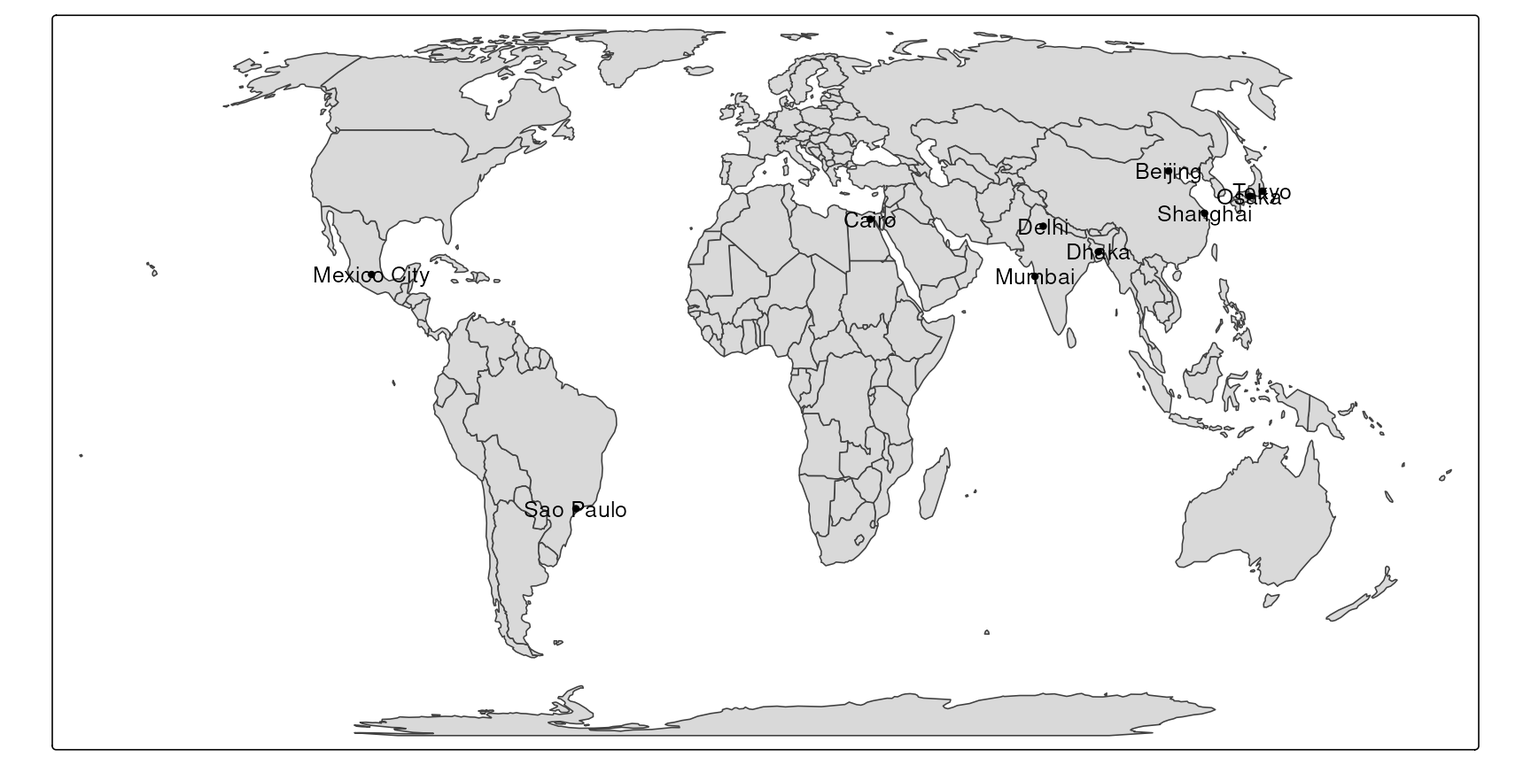
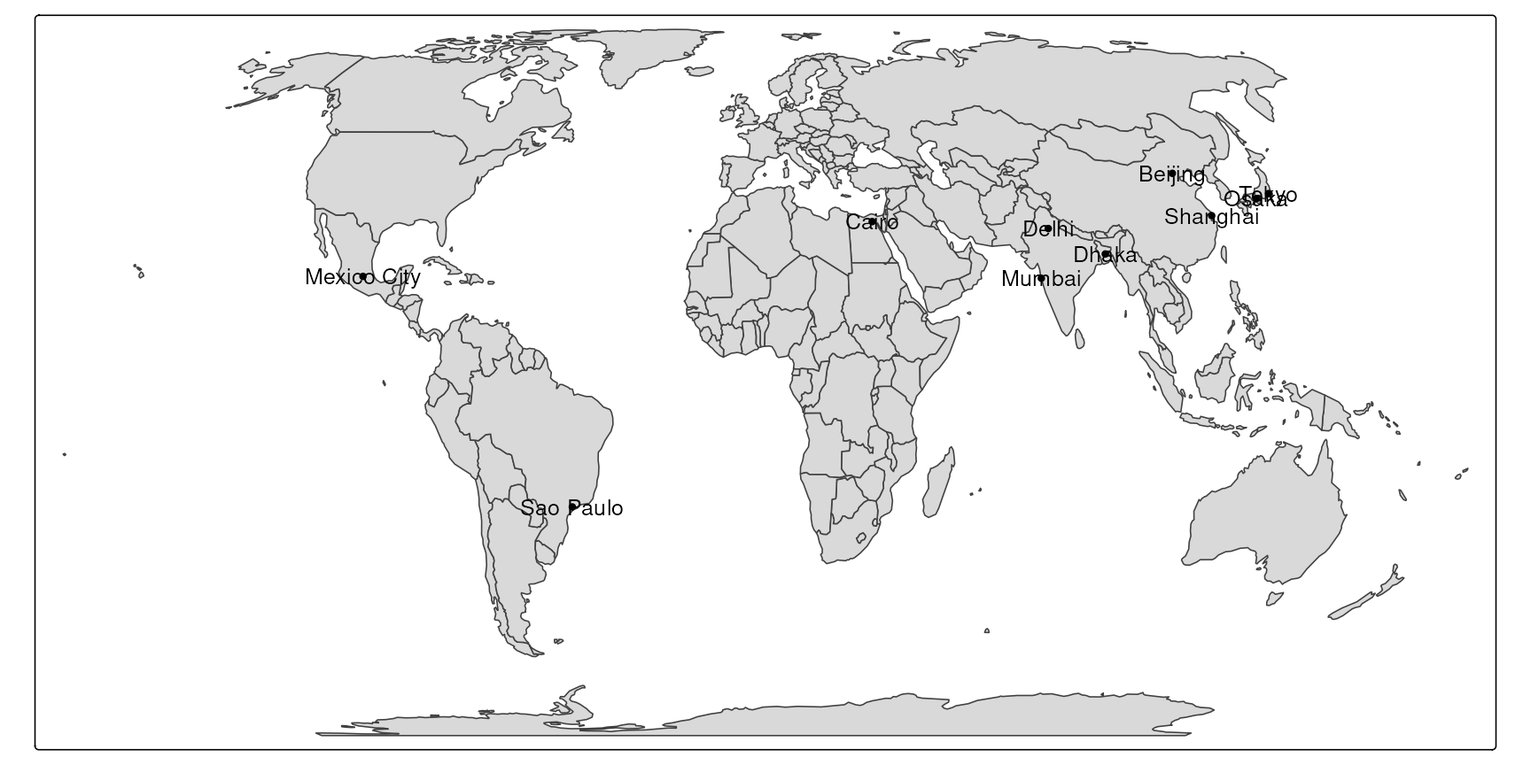
Deploy commit: adds vector text proj f02acf9aca8b66dde232b3ae1a17287354b49b45

diff --git a/map-projections.html b/map-projections.html
@@ -921,7 +921,7 @@ Table&nbsp;13.2: Recommended projections for different areas.
 </section></section><section id="sec-crs-in-r" class="level2" data-number="13.6"><h2 data-number="13.6" class="anchored" data-anchor-id="sec-crs-in-r">
 <span class="header-section-number">13.6</span> CRS in R</h2>
 <p> Coordinate Reference Systems (CRSs) are implemented in the software library <a href="https://proj.org/"><strong>PROJ</strong></a>. With implementation, we mean specifying a CRS and transforming coordinates from one CRS to another. <strong>PROJ</strong> is used by every popular software application for spatial data, in particular, <strong>ArcGIS</strong>, <strong>QGIS</strong>, and <strong>GRASS GIS</strong>, and also by many programming languages, including R. The <strong>sf</strong> and <strong>terra</strong> packages integrate the <strong>PROJ</strong> capabilities into R.</p>
-<p>A CRS is represented in <strong>sf</strong> by an object of class <code>crs</code>, which can be retrieved or set with the function <code>st_crs</code>(). In the following example, a <code>crs</code> object is created from an EPSG code, in this case, 3035, the Lambert Azimuthal Equal-Area projection for Europe.</p>
+<p>A CRS is represented in <strong>sf</strong> by an object of class <code>crs</code>, which can be retrieved or set with the function <code><a href="https://r-spatial.github.io/sf/reference/st_crs.html">st_crs()</a></code>. In the following example, a <code>crs</code> object is created from an EPSG code, in this case, 3035, the Lambert Azimuthal Equal-Area projection for Europe.</p>
 <div class="cell" data-layout-align="center">
 <div class="sourceCode" id="cb1"><pre class="downlit sourceCode r code-with-copy"><code class="sourceCode R"><span><span class="kw"><a href="https://rdrr.io/r/base/library.html">library</a></span><span class="op">(</span><span class="va"><a href="https://r-spatial.github.io/sf/">sf</a></span><span class="op">)</span></span>
 <span><span class="co"># CRS Lambert Azimuthal Equal-Area projection</span></span>
@@ -1092,52 +1092,51 @@ Figure&nbsp;13.9: Comparison between the same dataset of three waterfalls
 <span class="header-section-number">13.7</span> Specifying map projections within <strong>tmap</strong>
 </h2>
 <!-- https://r-tmap.github.io/tmap/articles/foundations_crs -->
-<!-- maybe also include map_boundary stuff here -->
-<!-- global: -->
+<p>Now that the concepts of map projections are established, we can examine how to specify map projections in <strong>tmap</strong>. We will expand on the short introduction from <a href="tm-shape.html#sec-map-projection-intro" class="quarto-xref"><span>Section 5.4</span></a> and show how to use various tools available in the <code><a href="https://r-tmap.github.io/tmap/reference/tm_crs.html">tm_crs()</a></code> function.</p>
 <section id="vector-data" class="level3" data-number="13.7.1"><h3 data-number="13.7.1" class="anchored" data-anchor-id="vector-data">
 <span class="header-section-number">13.7.1</span> Vector data</h3>
+<p>First, see how to specify a map projection for vector data. We will use the <code>worldvector.gpkg</code> and <code>worldcities.gpkg</code> datasets – the first one uses the Equal Earth projection (<code>EPSG:8857</code>), and the second one uses the WGS 84 coordinate system (<code>EPSG:4326</code>). Additionally, to show the effect of map projections, we will transform the <code>worldvector</code> data into the WGS 84 coordinate system, namely <code>worldvector_wgs84</code>.</p>
 <div class="cell" data-layout-align="center">
 <div class="sourceCode" id="cb6"><pre class="downlit sourceCode r code-with-copy"><code class="sourceCode R"><span><span class="kw"><a href="https://rdrr.io/r/base/library.html">library</a></span><span class="op">(</span><span class="va"><a href="https://github.com/r-tmap/tmap">tmap</a></span><span class="op">)</span></span>
 <span><span class="kw"><a href="https://rdrr.io/r/base/library.html">library</a></span><span class="op">(</span><span class="va"><a href="https://r-spatial.github.io/sf/">sf</a></span><span class="op">)</span></span>
 <span><span class="va">worldvector</span> <span class="op">=</span> <span class="fu"><a href="https://r-spatial.github.io/sf/reference/st_read.html">read_sf</a></span><span class="op">(</span><span class="st">"data/worldvector.gpkg"</span><span class="op">)</span></span>
-<span><span class="va">worldcities</span> <span class="op">=</span> <span class="fu"><a href="https://r-spatial.github.io/sf/reference/st_read.html">read_sf</a></span><span class="op">(</span><span class="st">"data/worldcities.gpkg"</span><span class="op">)</span></span></code><button title="Copy to Clipboard" class="code-copy-button"><i class="bi"></i></button></pre></div>
+<span><span class="va">worldcities</span> <span class="op">=</span> <span class="fu"><a href="https://r-spatial.github.io/sf/reference/st_read.html">read_sf</a></span><span class="op">(</span><span class="st">"data/worldcities.gpkg"</span><span class="op">)</span></span>
+<span><span class="va">worldvector_wgs84</span> <span class="op">=</span> <span class="fu"><a href="https://r-spatial.github.io/sf/reference/st_transform.html">st_transform</a></span><span class="op">(</span><span class="va">worldvector</span>, <span class="st">"EPSG:4326"</span><span class="op">)</span></span></code><button title="Copy to Clipboard" class="code-copy-button"><i class="bi"></i></button></pre></div>
 </div>
+<p><a href="#fig-mproj12-1" class="quarto-xref">Figure&nbsp;<span>13.10 (a)</span></a> shows the map of the world in the WGS 84 coordinate system created with the code below. We often see this coordinate system used in various global maps. However, as discussed earlier in this chapter, it is not the best choice for visualizing the whole World – WGS 84 is an unprojected coordinate system, and thus it has a lot of distortions, especially going further from the equator.</p>
 <div class="cell" data-layout-align="center">
-<div class="sourceCode" id="cb7"><pre class="downlit sourceCode r code-with-copy"><code class="sourceCode R"><span><span class="va">tm</span> <span class="op">=</span> <span class="fu"><a href="https://r-tmap.github.io/tmap/reference/tm_shape.html">tm_shape</a></span><span class="op">(</span><span class="va">worldvector</span><span class="op">)</span> <span class="op">+</span></span>
+<div class="sourceCode" id="cb7"><pre class="downlit sourceCode r code-with-copy"><code class="sourceCode R"><span><span class="va">tm</span> <span class="op">=</span> <span class="fu"><a href="https://r-tmap.github.io/tmap/reference/tm_shape.html">tm_shape</a></span><span class="op">(</span><span class="va">worldvector_wgs84</span><span class="op">)</span> <span class="op">+</span></span>
 <span>  <span class="fu"><a href="https://r-tmap.github.io/tmap/reference/tm_polygons.html">tm_polygons</a></span><span class="op">(</span><span class="op">)</span> <span class="op">+</span></span>
 <span>  <span class="fu"><a href="https://r-tmap.github.io/tmap/reference/tm_shape.html">tm_shape</a></span><span class="op">(</span><span class="va">worldcities</span><span class="op">)</span> <span class="op">+</span></span>
 <span>  <span class="fu"><a href="https://r-tmap.github.io/tmap/reference/tm_symbols.html">tm_dots</a></span><span class="op">(</span><span class="op">)</span> <span class="op">+</span></span>
-<span>  <span class="fu"><a href="https://r-tmap.github.io/tmap/reference/tm_text.html">tm_text</a></span><span class="op">(</span><span class="st">"name"</span><span class="op">)</span> <span class="op">+</span></span>
-<span>  <span class="fu"><a href="https://r-tmap.github.io/tmap/reference/tm_crs.html">tm_crs</a></span><span class="op">(</span><span class="st">"EPSG:4326"</span><span class="op">)</span></span>
+<span>  <span class="fu"><a href="https://r-tmap.github.io/tmap/reference/tm_text.html">tm_text</a></span><span class="op">(</span><span class="st">"name"</span><span class="op">)</span></span>
 <span><span class="va">tm</span></span></code><button title="Copy to Clipboard" class="code-copy-button"><i class="bi"></i></button></pre></div>
 </div>
+<p>We can improve this map by changing the projection to a more suitable one, such as Equal Earth, directly in the map creation code (<a href="#fig-mproj12-2" class="quarto-xref">Figure&nbsp;<span>13.10 (b)</span></a>). We just need to add the <code><a href="https://r-tmap.github.io/tmap/reference/tm_crs.html">tm_crs()</a></code> function with the desired projection, e.g., <code>tm_crs("+proj=eqearth")</code>.</p>
 <div class="cell" data-layout-align="center">
 <div class="sourceCode" id="cb8"><pre class="downlit sourceCode r code-with-copy"><code class="sourceCode R"><span><span class="va">tm</span> <span class="op">+</span></span>
-<span>  <span class="fu"><a href="https://r-tmap.github.io/tmap/reference/tm_crs.html">tm_crs</a></span><span class="op">(</span><span class="st">"+proj=eck4"</span><span class="op">)</span></span></code><button title="Copy to Clipboard" class="code-copy-button"><i class="bi"></i></button></pre></div>
+<span>  <span class="fu"><a href="https://r-tmap.github.io/tmap/reference/tm_crs.html">tm_crs</a></span><span class="op">(</span><span class="st">"+proj=eqearth"</span><span class="op">)</span> <span class="co"># or "EPSG:8857"</span></span></code><button title="Copy to Clipboard" class="code-copy-button"><i class="bi"></i></button></pre></div>
 </div>
-<div class="cell" data-layout-nrow="2" data-layout-align="center">
 <div id="fig-mproj12" class="quarto-layout-panel">
 <figure class="quarto-float quarto-float-fig figure"><div aria-describedby="fig-mproj12-caption-0ceaefa1-69ba-4598-a22c-09a6ac19f8ca">
 <div class="quarto-layout-row">
-<div class="cell-output-display quarto-layout-cell-subref quarto-layout-cell" data-ref-parent="fig-mproj12" style="flex-basis: 100.0%;justify-content: center;">
+<div class="cell-output-display quarto-layout-cell-subref quarto-layout-cell" data-ref-parent="fig-mproj12" style="flex-basis: 50.0%;justify-content: center;">
 <div id="fig-mproj12-1" class="quarto-float quarto-figure quarto-figure-center anchored" data-fig-align="center">
 <figure class="quarto-float quarto-subfloat-fig figure"><div aria-describedby="fig-mproj12-1-caption-0ceaefa1-69ba-4598-a22c-09a6ac19f8ca">
 <img src="figures/fig-mproj12-1.png" class="img-fluid quarto-figure quarto-figure-center figure-img" style="width:100.0%" data-ref-parent="fig-mproj12">
 </div>
 <figcaption class="quarto-float-caption-bottom quarto-subfloat-caption quarto-subfloat-fig" id="fig-mproj12-1-caption-0ceaefa1-69ba-4598-a22c-09a6ac19f8ca">
-(a) EPSG:4326 (WGS 84)
+(a) WGS 84 (EPSG:4326)
 </figcaption></figure>
 </div>
 </div>
-</div>
-<div class="quarto-layout-row">
-<div class="cell-output-display quarto-layout-cell-subref quarto-layout-cell" data-ref-parent="fig-mproj12" style="flex-basis: 100.0%;justify-content: center;">
+<div class="cell-output-display quarto-layout-cell-subref quarto-layout-cell" data-ref-parent="fig-mproj12" style="flex-basis: 50.0%;justify-content: center;">
 <div id="fig-mproj12-2" class="quarto-float quarto-figure quarto-figure-center anchored" data-fig-align="center">
 <figure class="quarto-float quarto-subfloat-fig figure"><div aria-describedby="fig-mproj12-2-caption-0ceaefa1-69ba-4598-a22c-09a6ac19f8ca">
 <img src="figures/fig-mproj12-2.png" class="img-fluid quarto-figure quarto-figure-center figure-img" style="width:100.0%" data-ref-parent="fig-mproj12">
 </div>
 <figcaption class="quarto-float-caption-bottom quarto-subfloat-caption quarto-subfloat-fig" id="fig-mproj12-2-caption-0ceaefa1-69ba-4598-a22c-09a6ac19f8ca">
-(b) Eckert IV
+(b) Equal Earth projection (EPSG:8857)
 </figcaption></figure>
 </div>
 </div>
@@ -1147,7 +1146,7 @@ Figure&nbsp;13.9: Comparison between the same dataset of three waterfalls
 Figure&nbsp;13.10: Map projections examples.
 </figcaption></figure>
 </div>
-</div>
+<p>The <code><a href="https://r-tmap.github.io/tmap/reference/tm_crs.html">tm_crs()</a></code> function is actually a small toolbox helping to manage map projections. As you have seen above, if we know the projection’s name (<code>"+proj=eqearth"</code>) or code (<code>"EPSG:8857"</code>) we can specify it directly. You can also use the <code><a href="https://r-tmap.github.io/tmap/reference/tm_crs.html">tm_crs()</a></code> function if you do not know the projection’s name or code – it accepts the <code>"auto"</code> argument. It will automatically select a suitable projection based on the data’s extent and the map’s properties. For example, if the map is global, it will select the pseudocylindrical projection Equal Earth (<a href="#fig-mproj-auto" class="quarto-xref">Figure&nbsp;<span>13.11</span></a>).</p>
 <div class="cell" data-layout-align="center">
 <div class="sourceCode" id="cb9"><pre class="downlit sourceCode r code-with-copy"><code class="sourceCode R"><span><span class="va">tm</span> <span class="op">+</span> </span>
 <span>  <span class="fu"><a href="https://r-tmap.github.io/tmap/reference/tm_crs.html">tm_crs</a></span><span class="op">(</span><span class="st">"auto"</span><span class="op">)</span></span></code><button title="Copy to Clipboard" class="code-copy-button"><i class="bi"></i></button></pre></div>
@@ -1162,17 +1161,22 @@ Figure&nbsp;13.11: Map with data projected into the automatically selected proje
 </div>
 </div>
 </div>
+<p>With the <code><a href="https://r-tmap.github.io/tmap/reference/tm_crs.html">tm_crs()</a></code> function set to <code>"auto"</code>, we may also specify the map projection property, such as <code>"area"</code>, <code>"distance"</code>, or <code>"shape"</code>. The <code>"area"</code> property (<em>equal area</em>) uses the Lambert Azimuthal Equal Area projection, <code>"distance"</code> (<em>equidistant</em>) uses the Azimuthal Equidistant projection, and <code>"shape"</code> (<em>conformal</em>) uses the Stereographic projection. <a href="#fig-mproj-auto2" class="quarto-xref">Figure&nbsp;<span>13.12</span></a> displays the map with the <code>"distance"</code> property – this means that our data is projected into the Azimuthal Equidistant projection, in this case, with the center on the coordinates of zero latitude and zero longitude. Then, every point on the map is equidistant from that center.</p>
 <div class="cell" data-layout-align="center">
-<div class="sourceCode" id="cb10"><pre class="downlit sourceCode r code-with-copy"><code class="sourceCode R"><span><span class="fu"><a href="https://r-tmap.github.io/tmap/reference/tm_shape.html">tm_shape</a></span><span class="op">(</span><span class="va">World</span><span class="op">)</span> <span class="op">+</span></span>
+<div class="sourceCode" id="cb10"><pre class="downlit sourceCode r code-with-copy"><code class="sourceCode R"><span><span class="fu"><a href="https://r-tmap.github.io/tmap/reference/tm_shape.html">tm_shape</a></span><span class="op">(</span><span class="va">worldvector_wgs84</span><span class="op">)</span> <span class="op">+</span></span>
 <span>  <span class="fu"><a href="https://r-tmap.github.io/tmap/reference/tm_polygons.html">tm_polygons</a></span><span class="op">(</span><span class="op">)</span> <span class="op">+</span></span>
 <span>  <span class="fu"><a href="https://r-tmap.github.io/tmap/reference/tm_shape.html">tm_shape</a></span><span class="op">(</span><span class="va">worldcities</span><span class="op">)</span> <span class="op">+</span></span>
 <span>  <span class="fu"><a href="https://r-tmap.github.io/tmap/reference/tm_symbols.html">tm_dots</a></span><span class="op">(</span><span class="op">)</span> <span class="op">+</span></span>
 <span>  <span class="fu"><a href="https://r-tmap.github.io/tmap/reference/tm_text.html">tm_text</a></span><span class="op">(</span><span class="st">"name"</span><span class="op">)</span> <span class="op">+</span></span>
 <span>  <span class="fu"><a href="https://r-tmap.github.io/tmap/reference/tm_crs.html">tm_crs</a></span><span class="op">(</span><span class="st">"auto"</span>, property <span class="op">=</span> <span class="st">"distance"</span><span class="op">)</span></span></code><button title="Copy to Clipboard" class="code-copy-button"><i class="bi"></i></button></pre></div>
 <div class="cell-output-display">
-<div class="quarto-figure quarto-figure-center">
-<figure class="figure"><p><img src="figures/unnamed-chunk-4-1.png" class="img-fluid quarto-figure quarto-figure-center figure-img" style="width:100.0%"></p>
-</figure>
+<div id="fig-mproj-auto2" class="quarto-float quarto-figure quarto-figure-center anchored" data-fig-align="center">
+<figure class="quarto-float quarto-float-fig figure"><div aria-describedby="fig-mproj-auto2-caption-0ceaefa1-69ba-4598-a22c-09a6ac19f8ca">
+<img src="figures/fig-mproj-auto2-1.png" class="img-fluid quarto-figure quarto-figure-center figure-img" style="width:100.0%">
+</div>
+<figcaption class="quarto-float-caption-bottom quarto-float-caption quarto-float-fig" id="fig-mproj-auto2-caption-0ceaefa1-69ba-4598-a22c-09a6ac19f8ca">
+Figure&nbsp;13.12: Map with data projected into the automatically selected projection with distance property.
+</figcaption></figure>
 </div>
 </div>
 </div>
@@ -1180,12 +1184,11 @@ Figure&nbsp;13.11: Map with data projected into the automatically selected proje
 <span class="header-section-number">13.7.2</span> Raster data</h3>
 <div class="cell" data-layout-align="center">
 <div class="sourceCode" id="cb11"><pre class="downlit sourceCode r code-with-copy"><code class="sourceCode R"><span><span class="kw"><a href="https://rdrr.io/r/base/library.html">library</a></span><span class="op">(</span><span class="va"><a href="https://r-spatial.github.io/stars/">stars</a></span><span class="op">)</span></span>
-<span><span class="co">#&gt; Loading required package: abind</span></span>
 <span><span class="va">worldelevation</span> <span class="op">=</span> <span class="fu"><a href="https://r-spatial.github.io/stars/reference/read_stars.html">read_stars</a></span><span class="op">(</span><span class="st">"data/worldelevation.tif"</span><span class="op">)</span></span></code><button title="Copy to Clipboard" class="code-copy-button"><i class="bi"></i></button></pre></div>
 </div>
 <p>Reprojections of vector data are usually straightforward because each spatial coordinate is reprojected individually. <!-- mention invalid geometries? --> Reprojecting of raster data, on the other hand, is more complex and requires using one of two approaches. The first approach applies raster warping, which is a name for two separate spatial operations: creation of a new regular raster object and computation of new pixel values through resampling (for more details read Chapter 7 of <span class="citation" data-cites="lovelace_geocomputation_2025">Lovelace, Nowosad, and Muenchow (<a href="references.html#ref-lovelace_geocomputation_2025" role="doc-biblioref">2025</a>)</span>). This is the default option in <strong>tmap</strong>, however, it has some limitations and it is not always possible to use it.</p>
 <!-- to fix the rest of the section! -->
-<p><a href="#fig-tm-map-proj-1" class="quarto-xref">Figure&nbsp;<span>13.12 (a)</span></a> shows the world elevation raster reprojected to Equal Earth. Some of you can quickly notice that certain areas, such as parts of Antarctica, New Zealand, Alaska, and the Kamchatka Peninsula, are presented twice, with one version being largely distorted. Another limitation of <code>raster.warp = TRUE</code> is the use of the nearest neighbor resampling only – while it can be a proper method to use for categorical rasters, it can have some unintended consequences for continuous rasters (such as the <code>"worldelevation.tif"</code> data).</p>
+<p><a href="#fig-tm-map-proj-1" class="quarto-xref">Figure&nbsp;<span>13.13 (a)</span></a> shows the world elevation raster reprojected to Equal Earth. Some of you can quickly notice that certain areas, such as parts of Antarctica, New Zealand, Alaska, and the Kamchatka Peninsula, are presented twice, with one version being largely distorted. Another limitation of <code>raster.warp = TRUE</code> is the use of the nearest neighbor resampling only – while it can be a proper method to use for categorical rasters, it can have some unintended consequences for continuous rasters (such as the <code>"worldelevation.tif"</code> data).</p>
 <div class="cell" data-layout-align="center">
 <div class="sourceCode" id="cb12"><pre class="downlit sourceCode r code-with-copy"><code class="sourceCode R"><span><span class="fu"><a href="https://r-tmap.github.io/tmap/reference/tm_shape.html">tm_shape</a></span><span class="op">(</span><span class="va">worldelevation</span><span class="op">)</span> <span class="op">+</span></span>
 <span>  <span class="fu"><a href="https://r-tmap.github.io/tmap/reference/tm_raster.html">tm_raster</a></span><span class="op">(</span><span class="st">"worldelevation.tif"</span>, </span>
@@ -1193,7 +1196,7 @@ Figure&nbsp;13.11: Map with data projected into the automatically selected proje
 <span>  <span class="fu"><a href="https://r-tmap.github.io/tmap/reference/tm_crs.html">tm_crs</a></span><span class="op">(</span><span class="st">"EPSG:8857"</span><span class="op">)</span></span></code><button title="Copy to Clipboard" class="code-copy-button"><i class="bi"></i></button></pre></div>
 </div>
 <p>The second approach (<code>tm_options(raster.warp = FALSE)</code>) computes new coordinates for each raster cell keeping all of the original values and results in a curvilinear grid. This calculation could deform the shapes of original grid cells, and usually curvilinear grids take a longer time to plot<a href="#fn1" class="footnote-ref" id="fnref1" role="doc-noteref"><sup>1</sup></a>.</p>
-<p><a href="#fig-tm-map-proj-2" class="quarto-xref">Figure&nbsp;<span>13.12 (b)</span></a> shows an example of the second approach, which gave a better result in this case without any spurious lands. However, the creation of the (b) map takes about ten times longer than the (a) map.</p>
+<p><a href="#fig-tm-map-proj-2" class="quarto-xref">Figure&nbsp;<span>13.13 (b)</span></a> shows an example of the second approach, which gave a better result in this case without any spurious lands. However, the creation of the (b) map takes about ten times longer than the (a) map.</p>
 <div class="cell" data-layout-align="center">
 <div class="sourceCode" id="cb13"><pre class="downlit sourceCode r code-with-copy"><code class="sourceCode R"><span><span class="fu"><a href="https://r-tmap.github.io/tmap/reference/tm_shape.html">tm_shape</a></span><span class="op">(</span><span class="va">worldelevation</span><span class="op">)</span> <span class="op">+</span></span>
 <span>  <span class="fu"><a href="https://r-tmap.github.io/tmap/reference/tm_raster.html">tm_raster</a></span><span class="op">(</span><span class="st">"worldelevation.tif"</span>, </span>
@@ -1230,7 +1233,7 @@ Figure&nbsp;13.11: Map with data projected into the automatically selected proje
 </div>
 </div>
 <figcaption class="quarto-float-caption-bottom quarto-float-caption quarto-float-fig" id="fig-tm-map-proj-caption-0ceaefa1-69ba-4598-a22c-09a6ac19f8ca">
-Figure&nbsp;13.12: Two elevation maps in the Equal Earth projection
+Figure&nbsp;13.13: Two elevation maps in the Equal Earth projection
 </figcaption></figure>
 </div>
 </div>
@@ -1250,7 +1253,7 @@ Figure&nbsp;13.12: Two elevation maps in the Equal Earth projection
 <img src="figures/fig-mproj3-1.png" class="img-fluid quarto-figure quarto-figure-center figure-img" style="width:100.0%">
 </div>
 <figcaption class="quarto-float-caption-bottom quarto-float-caption quarto-float-fig" id="fig-mproj3-caption-0ceaefa1-69ba-4598-a22c-09a6ac19f8ca">
-Figure&nbsp;13.13: Map with data projected into Eckert IV and with a customized style.
+Figure&nbsp;13.14: Map with data projected into Eckert IV and with a customized style.
 </figcaption></figure>
 </div>
 </div>
@@ -1262,7 +1265,7 @@ Figure&nbsp;13.13: Map with data projected into Eckert IV and with a customized 
 <img src="figures/fig-exprojs-1.png" class="img-fluid quarto-figure quarto-figure-center figure-img" style="width:100.0%">
 </div>
 <figcaption class="quarto-float-caption-bottom quarto-float-caption quarto-float-fig" id="fig-exprojs-caption-0ceaefa1-69ba-4598-a22c-09a6ac19f8ca">
-Figure&nbsp;13.14: Examples of map projections for the whole world.
+Figure&nbsp;13.15: Examples of map projections for the whole world.
 </figcaption></figure>
 </div>
 </div>
@@ -1317,7 +1320,7 @@ Figure&nbsp;13.14: Examples of map projections for the whole world.
 </div>
 </div>
 <figcaption class="quarto-float-caption-bottom quarto-float-caption quarto-float-fig" id="fig-mproj-ortho-caption-0ceaefa1-69ba-4598-a22c-09a6ac19f8ca">
-Figure&nbsp;13.15: Orthographic projection examples.
+Figure&nbsp;13.16: Orthographic projection examples.
 </figcaption></figure>
 </div>
 <!-- ## Local map projections in **tmap** -->

diff --git a/tm-shape.html b/tm-shape.html
@@ -398,7 +398,7 @@ gtag('config', 'G-ER2GMPEJNF', { 'anonymize_ip': true});
 <li><a href="#sec-shapes-and-layers" id="toc-sec-shapes-and-layers" class="nav-link" data-scroll-target="#sec-shapes-and-layers"><span class="header-section-number">5.1</span> Shapes and layers</a></li>
   <li><a href="#sec-shapes-hierarchy" id="toc-sec-shapes-hierarchy" class="nav-link" data-scroll-target="#sec-shapes-hierarchy"><span class="header-section-number">5.2</span> Shapes hierarchy</a></li>
   <li><a href="#sec-map-extent" id="toc-sec-map-extent" class="nav-link" data-scroll-target="#sec-map-extent"><span class="header-section-number">5.3</span> Map extent</a></li>
-  <li><a href="#sec-map-projection" id="toc-sec-map-projection" class="nav-link" data-scroll-target="#sec-map-projection"><span class="header-section-number">5.4</span> Map projection</a></li>
+  <li><a href="#sec-map-projection-intro" id="toc-sec-map-projection-intro" class="nav-link" data-scroll-target="#sec-map-projection-intro"><span class="header-section-number">5.4</span> Map projection</a></li>
   </ul><div class="toc-actions"><ul><li><a href="https://github.com/geocompx/tmap/edit/main/tm-shape.qmd" class="toc-action"><i class="bi bi-github"></i>Edit this page</a></li></ul></div></nav>
     </div>
 <!-- main -->
@@ -534,7 +534,7 @@ Figure&nbsp;5.5: Global elevation data limited to the extent of the other spatia
 <!-- mention that legend related to the complete object -->
 <!-- ?bb -->
 <!-- explain some additional arguments of bb?? -->
-</section><section id="sec-map-projection" class="level2" data-number="5.4"><h2 data-number="5.4" class="anchored" data-anchor-id="sec-map-projection">
+</section><section id="sec-map-projection-intro" class="level2" data-number="5.4"><h2 data-number="5.4" class="anchored" data-anchor-id="sec-map-projection-intro">
 <span class="header-section-number">5.4</span> Map projection</h2>
 <p></p>
 <p>As we mentioned in the previous section, created maps use the projection from the main <em>shape</em>. However, we often want to create a map with a different projection, for example, to preserve a specific map property (<span class="quarto-unresolved-ref">?sec-crs</span>). We can do this in three ways. The first way to use a different projection on a map is to reproject the main data before plotting, as shown in <a href="map-projections.html#sec-crs-in-r" class="quarto-xref"><span>Section 13.6</span></a>. The second way is to specify the map projection using the <code>crs</code> argument of <code><a href="https://r-tmap.github.io/tmap/reference/tm_shape.html">tm_shape()</a></code>. This argument expects either some <code>crs</code> object or a CRS code. The third way is to use a <code><a href="https://r-tmap.github.io/tmap/reference/tm_crs.html">tm_crs()</a></code> function.</p>

diff --git a/visual-variables.html b/visual-variables.html
@@ -887,7 +887,7 @@ Figure&nbsp;7.10: Example of a map where text sizes represent elevations of the 
 <span>             shape.scale <span class="op">=</span> <span class="fu">tm_scale</span><span class="op">(</span>values <span class="op">=</span> <span class="va">my_icons</span><span class="op">)</span><span class="op">)</span></span></code><button title="Copy to Clipboard" class="code-copy-button"><i class="bi"></i></button></pre></div>
 </div>
 <div class="cell" data-layout-align="center" data-layout-row="2">
-<div id="fig-tmsymshape" class="cell quarto-float quarto-figure quarto-figure-center anchored" data-layout-row="2" data-layout-align="center">
+<div id="fig-tmsymshape" class="cell quarto-float quarto-figure quarto-figure-center anchored" data-layout-align="center" data-layout-row="2">
 <figure class="quarto-float quarto-float-fig figure"><div aria-describedby="fig-tmsymshape-caption-0ceaefa1-69ba-4598-a22c-09a6ac19f8ca">
 <div class="cell-output-display">
 <div id="fig-tmsymshape-1" class="quarto-float quarto-figure quarto-figure-center anchored" data-fig-align="center">

diff --git a/layout.html b/layout.html
@@ -839,7 +839,7 @@ Figure&nbsp;12.9: Impact of the scale argument on the map layout.
 <span><span class="co">#&gt; | map area      7.01 4.94 1.42 |</span></span>
 <span><span class="co">#&gt; --------------------------------</span></span></code><button title="Copy to Clipboard" class="code-copy-button"><i class="bi"></i></button></pre></div>
 <div class="cell-output-display">
-<div id="fig-design-mode" class="quarto-float quarto-figure quarto-figure-center anchored" width="100%" data-fig-align="center">
+<div id="fig-design-mode" class="quarto-float quarto-figure quarto-figure-center anchored" data-fig-align="center" width="100%">
 <figure class="quarto-float quarto-float-fig figure"><div aria-describedby="fig-design-mode-caption-0ceaefa1-69ba-4598-a22c-09a6ac19f8ca">
 <img src="figures/fig-design-mode-1.png" id="fig-design-mode" class="img-fluid quarto-figure quarto-figure-center anchored figure-img" style="width:100.0%">
 </div>
